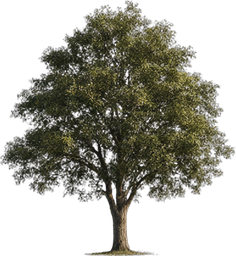
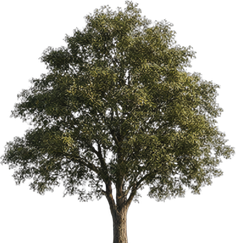
feat: スタミナ（仮の値）を実装。ダッシュ・突進攻撃・よじ登りで消費、0で止まり20%で再開、左上に黄色の棒。ID 217の木の根元を切る（森の木も合わせる）。テストと仕様書を更新

diff --git a/public/js/game.js b/public/js/game.js
@@ -71,6 +71,9 @@ export class GameEngine {
             hp: 100,
             maxMp: 60,
             mp: 60,
+            maxStamina: 43, stamina: 43,   // スタミナ（仮。能力値ができるまで、Lv1・人間・平均の値。式は character-spec 8.2e、定数は combat.json）
+            staminaPause: 0,       // 回復が止まる残り秒（ダッシュ・攻撃・登りのあと）
+            staminaExhausted: false,   // 0 になって、最大値の resumeRatio まで回復するまで、ダッシュ・攻撃・登りができない
             gold: 0,
             status: {},         // 状態異常（poison・burn: 継続ダメージ / slow / paralysis / silence / curse）。{ 種類: { t: 残り秒, dps / scale } }
             exp: 0,
@@ -173,6 +176,7 @@ export class GameEngine {
                 fetch('/data/player.json'),
                 fetch('/data/npcs.json')
             ]);
+            this.staminaDef = (await (await fetch('/data/combat.json')).json()).stamina;
             this.objectDefinitions = await objRes.json();
             this.enemyDefinitions = await enemyRes.json();
             this.items = await itemRes.json();
@@ -3458,6 +3462,8 @@ export class GameEngine {
             return;
         }
 
+        this.updateStamina(dt);
+
         // Player cooldown & invincibility
         if (this.player.attackCooldown > 0) this.player.attackCooldown -= dt;
         if (this.player.magicCooldown > 0) this.player.magicCooldown -= dt;
@@ -4035,7 +4041,7 @@ export class GameEngine {
             // Rotate move direction by player's view angle
             const sin = Math.sin(this.player.angle);
             const cos = Math.cos(this.player.angle);
-            const baseSpeed = this.keys.sprint ? this.player.runSpeed : this.player.speed;
+            const baseSpeed = (this.keys.sprint && this.useStamina(this.staminaCost('dash') * dt)) ? this.player.runSpeed : this.player.speed;
             const moveSpeed = baseSpeed * speedMod;
             worldMoveX = (moveDir.x * cos + moveDir.z * sin) * moveSpeed * dt;
             worldMoveZ = (-moveDir.x * sin + moveDir.z * cos) * moveSpeed * dt;
@@ -4342,12 +4348,36 @@ export class GameEngine {
     // 崖（ちょうど 2 段高い所）をよじ登る: 崖に向かって前を押し続けて CLIMB_HOLD_SEC 秒で始まり、CLIMB_SEC 秒かかる。
     //   ①ジャンプして崖の縁に手をかける ②手で体を引き上げる ③足をひっかけて、よっこいしょと上がる ④縁の上に立つ。
     //   登っている間は歩けない。敵の攻撃で、ダメージを受けると、中断して下に落ちる（落下のダメージは、なし）。3 段以上の崖は、登れない
+    // ---- スタミナ（character-spec 8.2e）。能力値・重量がまだないので、重量比 0.8・持久力 14・Lv1 の仮の値で計算する ----
+    staminaMul() { const r = 0.8, d = this.staminaDef; return r <= 1 ? d.loadMulUnder.base + d.loadMulUnder.slope * r : Math.min(d.loadMulOver.max, 1 + (r - 1) * d.loadMulOver.slope); }
+    staminaCost(kind, weaponWeight = 0) {
+        const d = this.staminaDef; if (!d) return 0;
+        const base = kind === 'dash' ? d.dashCost : weaponWeight * d.attackCoef;
+        return base * this.staminaMul() / (1 + 14 * d.enduranceDivisor);
+    }
+    // 消費する。足りないとき（切れている・0 になる）は、false（ダッシュなどを止める）
+    useStamina(amount) {
+        const p = this.player;
+        if (!this.staminaDef || p.staminaExhausted) return !this.staminaDef;
+        p.stamina = Math.max(0, p.stamina - amount);
+        p.staminaPause = this.staminaDef.regenPause;
+        if (p.stamina <= 0) p.staminaExhausted = true;
+        return true;
+    }
+    updateStamina(dt) {
+        const p = this.player, d = this.staminaDef; if (!d) return;
+        if (p.staminaPause > 0) { p.staminaPause -= dt; return; }
+        p.stamina = Math.min(p.maxStamina, p.stamina + (14 * d.regenEnd + 1 * d.regenLevel) * dt);
+        if (p.staminaExhausted && p.stamina >= p.maxStamina * d.resumeRatio) p.staminaExhausted = false;
+    }
+
     tryStartClimb(dirX, dirZ) {
         const now = performance.now();
         const h = this.climbHold;
         if (!h || now - h.last > 150 || h.dirX !== dirX || h.dirZ !== dirZ) this.climbHold = { since: now, last: now, dirX, dirZ };
         else h.last = now;
         if (now - this.climbHold.since < CLIMB_HOLD_SEC * 1000) return;
+        if (this.player.staminaExhausted) return;   // スタミナ切れは、登れない
         const cur = this.player.heightLevel ?? this.heightLevelAt(this.player.x, this.player.z);
         const r = this.player.radius;
         // 崖の縁（2 段高くなる所）を探し、その先の、上に立つ位置を決める
@@ -4360,6 +4390,7 @@ export class GameEngine {
         if (this.heightLevelAt(tx, tz, cur) - cur !== CLIMB_RISE || this.isInsideWall(tx, tz)) return;   // 上に立てない（壁・木・段が、続く）ときは、登らない
         this.player.climb = { t: 0, sx: this.player.x, sz: this.player.z, tx, tz, fromLv: cur, toLv: cur + CLIMB_RISE, fromY: cur * this.heightStep, toY: (cur + CLIMB_RISE) * this.heightStep };
         this.climbHold = null;
+        this.useStamina(this.staminaDef?.climbCost ?? 15);   // 登りの消費（仮）
     }
 
     updateClimb(dt) {
@@ -4850,7 +4881,7 @@ export class GameEngine {
         const cross = Math.abs(pFwdX * nz - pFwdZ * nx);
 
         // Player is actively pressing move key to attack/charge forward
-        const isPlayerMovingForward = (this.keys.forward && !this.player.isFalling);
+        const isPlayerMovingForward = (this.keys.forward && !this.player.isFalling && !this.player.staminaExhausted);   // スタミナ切れは、攻撃できない（歩行・防御は可）
 
         // Ys 1 "Half-offset" rule:
         // Attack only occurs if player is actively moving forward!
@@ -4866,6 +4897,8 @@ export class GameEngine {
         };
         const knockScale = cls ? cls.knockback : 1.0;
         const heavySound = cls ? cls.sound === 'heavy' : false;
+
+        if ((isHalfOffset || isCharging)) this.useStamina(this.staminaCost('attack', weapon?.weight ?? 10));   // 攻撃 1 回の消費（当たっても外れても）
 
         if (isHalfOffset) {
             // CRITICAL HALF-OFFSET HIT: Player takes 0 damage, monster takes full + bonus damage!
@@ -5212,6 +5245,7 @@ export class GameEngine {
         put('hpText', 'text', `${Math.ceil(this.player.hp)}/${this.player.maxHp}`);
         put('mpBar', 'width', `${(this.player.mp / this.player.maxMp) * 100}%`);
         put('mpText', 'text', `${Math.floor(this.player.mp)}/${this.player.maxMp}`);
+        put('staminaBar', 'width', `${(this.player.stamina / this.player.maxStamina) * 100}%`);
         put('levelText', 'text', `Lv.${this.player.level}`);
         put('expText', 'text', `EXP: ${this.player.exp}`);
         put('goldText', 'text', `${this.player.gold || 0} G`);

diff --git a/public/index.html b/public/index.html
@@ -578,6 +578,10 @@
             <div class="hp-bar-bg" style="height: 8px;">
                 <div id="mpBar" style="width: 100%; height: 100%; background: linear-gradient(90deg, #3b82f6, #60a5fa); transition: width 0.15s;"></div>
             </div>
+            <!-- スタミナ Bar -->
+            <div class="hp-bar-bg" style="height: 6px; margin-top: 4px;">
+                <div id="staminaBar" style="width: 100%; height: 100%; background: linear-gradient(90deg, #ca8a04, #facc15); transition: width 0.1s;"></div>
+            </div>
             <div style="margin-top: 4px; display: flex; justify-content: space-between; font-size: 12px; color: #94a3b8;">
                 <span id="expText">EXP: 0</span>
                 <span id="goldText" style="color: #facc15; font-weight: bold;">0 G</span>

diff --git a/docs/map-spec.md b/docs/map-spec.md
@@ -1491,3 +1491,10 @@ Sources:
 ## 43-52. 雪山の高い所は、深い雪
 - 画面で見ると、雪山の高い所（高さ 24 以上）の地面は、ほとんどが暗い岩肌（`rock`）で、雪が深く見えなかった。高さ 26 以上で、岩肌にするのは、雑音（`bare`）が 0.62 より大きい所だけ（約 3 割）にして、あとは雪（`snow`）の地面のままにした（以前は、高さ 24 以上・0.25 より大きい所）。高い所に、ところどころ岩肌が出る、深い雪の山になる。
 - 直し（3 回目）: 読み込み中は更新・描画を止めても、端を越えた**そのフレーム**は、`update` の中で `loadMap` が始まったあと、同じフレームの `render` が実行されていた。`loadMapBody` の最初の部分（マップのデータが読み込み済みのとき、最初の `await` まで）は、すぐ同期で実行され、シーンの入れ替えと床の一部だけが作られる。その作りかけの画面が、最後の 1 枚として、読み込みが終わるまで（0.5〜1 秒）映り続けた。`update` のあとも、`loadingMap` なら描画しない。確認: 描画の呼び出しを数えると、端を越えたとき、読み込み中の描画が、直す前は 1 回・直したあとは 0 回。
+
+## 43-53. スタミナ（仮の実装）
+- `docs/character-spec.md` 8.2e の式を、`game.js` に実装した（定数は `combat.json` の `stamina`）。能力値（筋力・持久力）・装備の重さがまだないので、**Lv1・人間・平均（最大 43、重量比 0.8、持久力 14）の仮の値**で計算する。能力値ができたら、`staminaMul` / `staminaCost` / `updateStamina` の仮の数を差し替える。
+- 消費: ダッシュ（Shift で動いている間、毎秒）、突進攻撃 1 回（武器の重さ × 0.2。`items.json` に重さがないので、仮に 10）、よじ登り（開始時に `climbCost` = 15、仮）。消費のあと 1 秒は回復しない。
+- 0 になると、ダッシュ・突進攻撃・よじ登りができない（歩行・防御は可）。最大値の 20% まで回復すると、再開できる。
+- 表示: 左上の MP の下に、黄色の細い棒（`staminaBar`）。
+- 未実装: 弓・魔法の消費、薬・香・宿屋での回復、敵のスタミナ攻撃、状態の保存。
